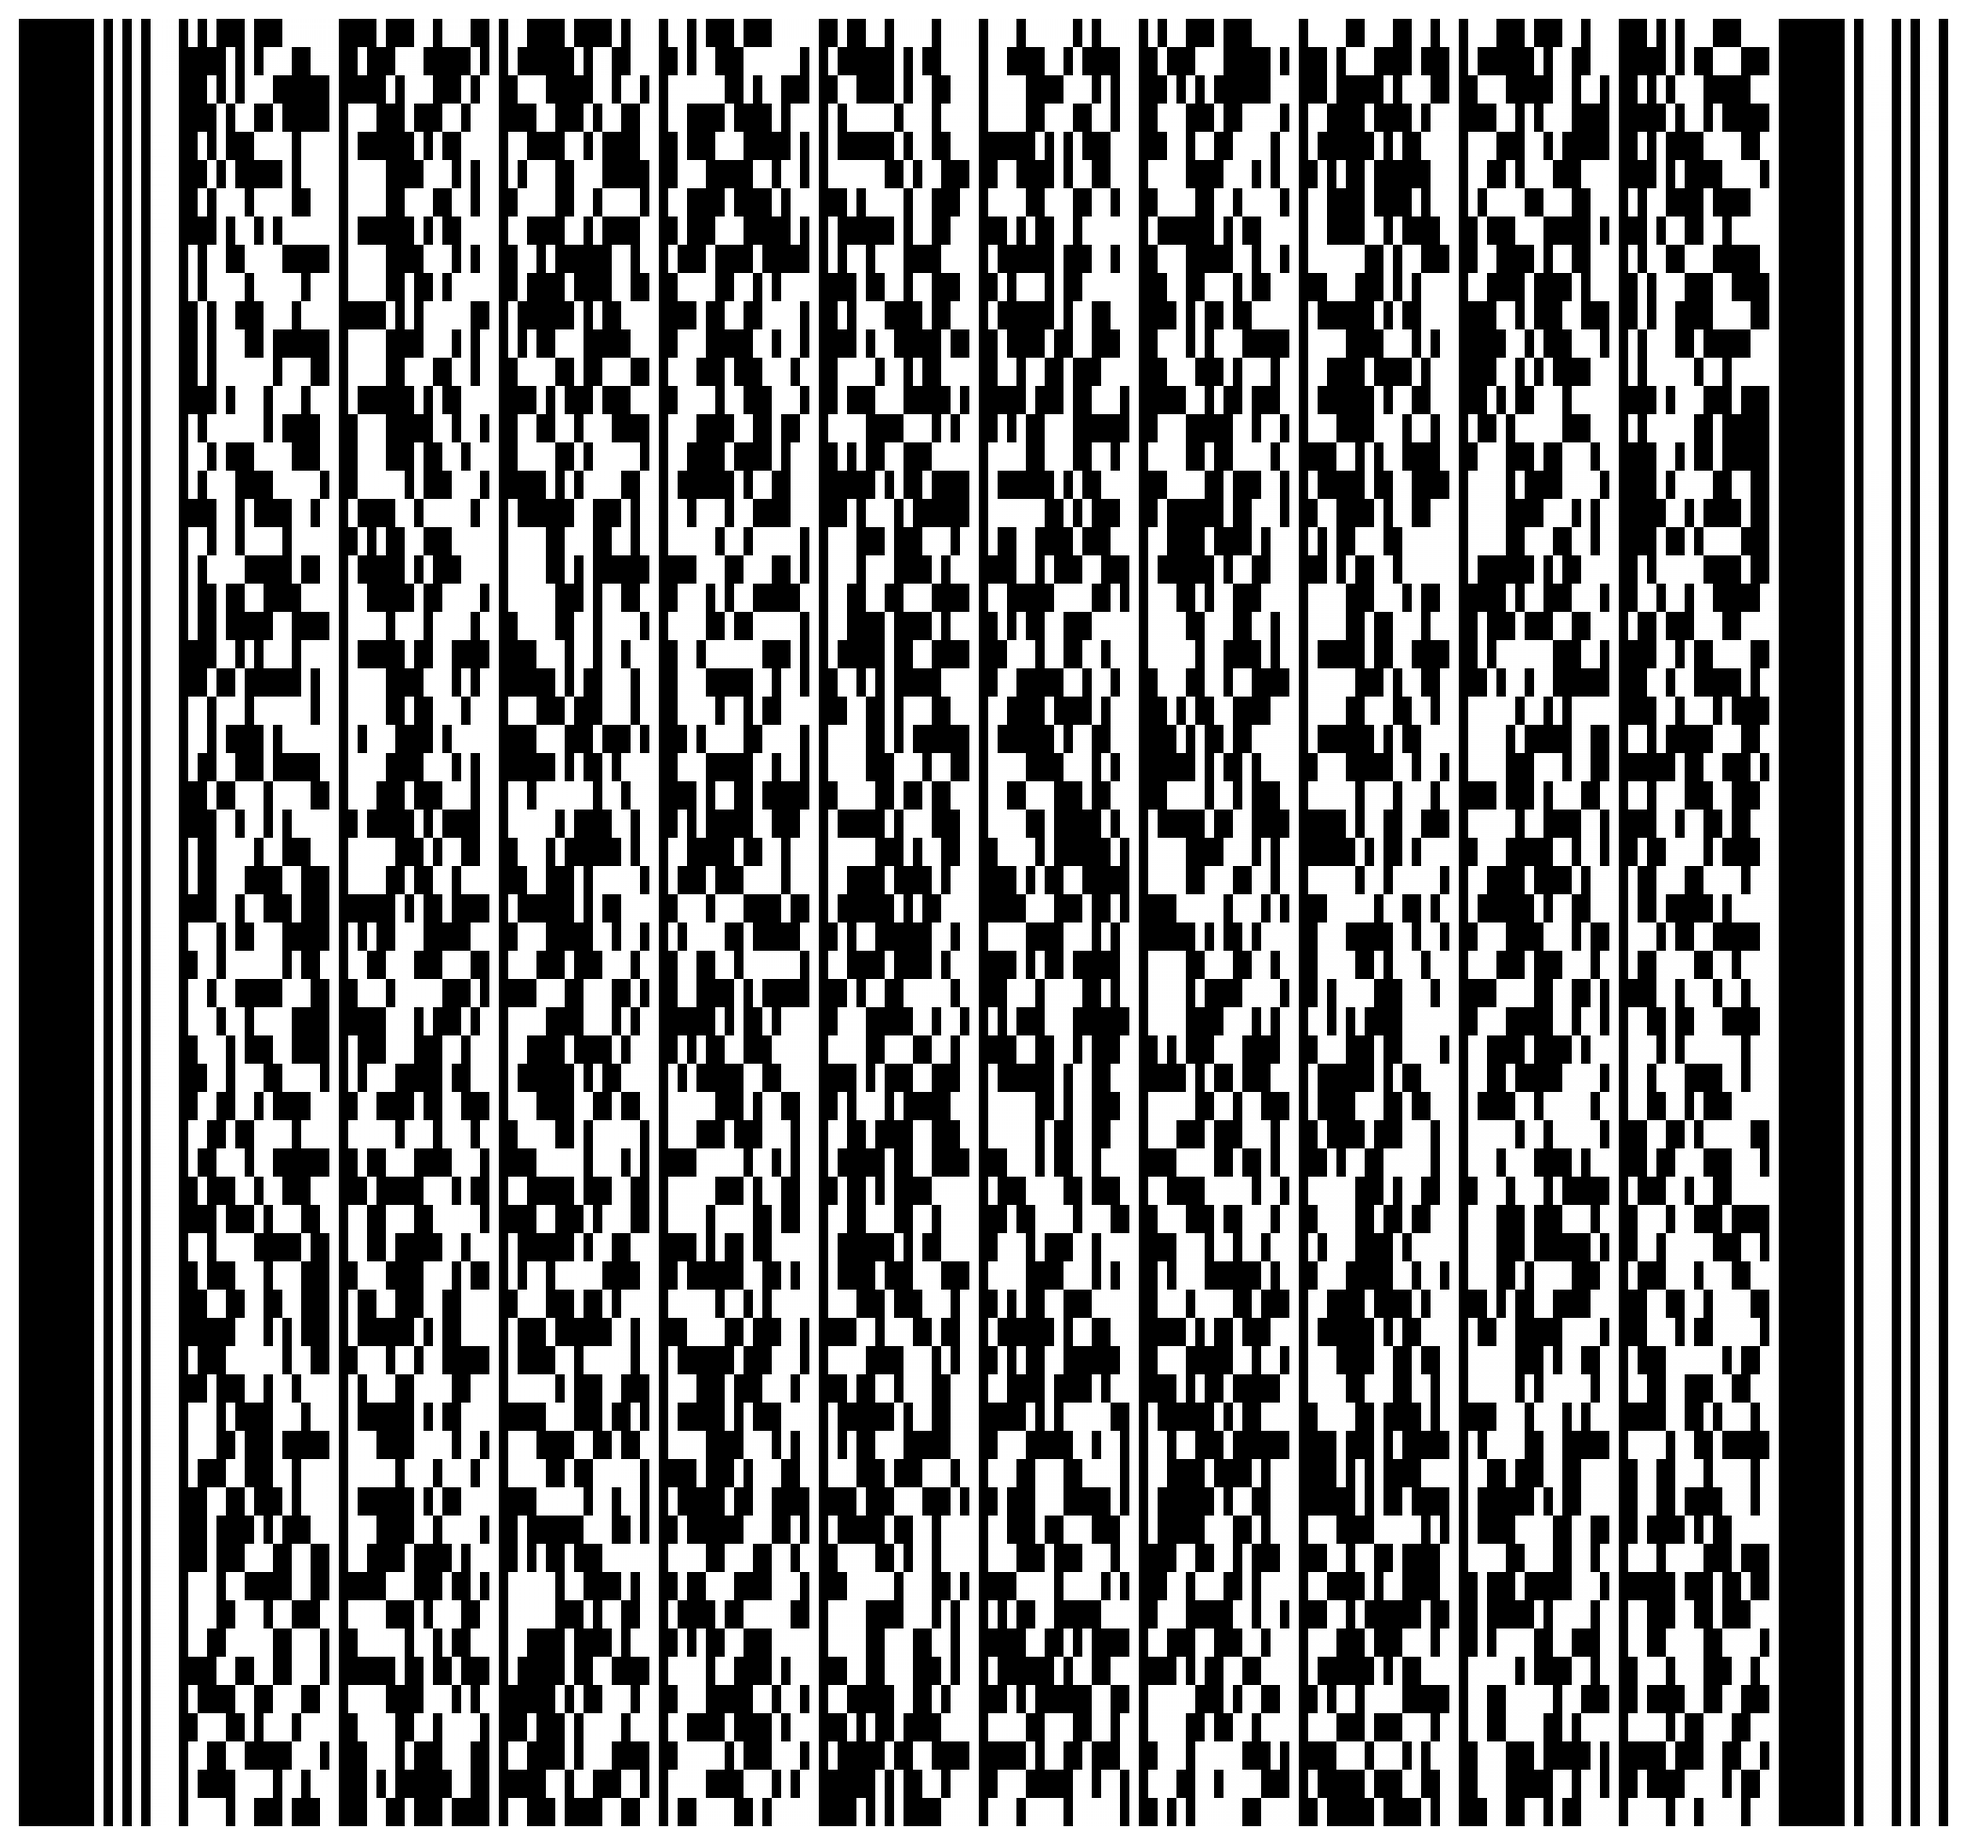
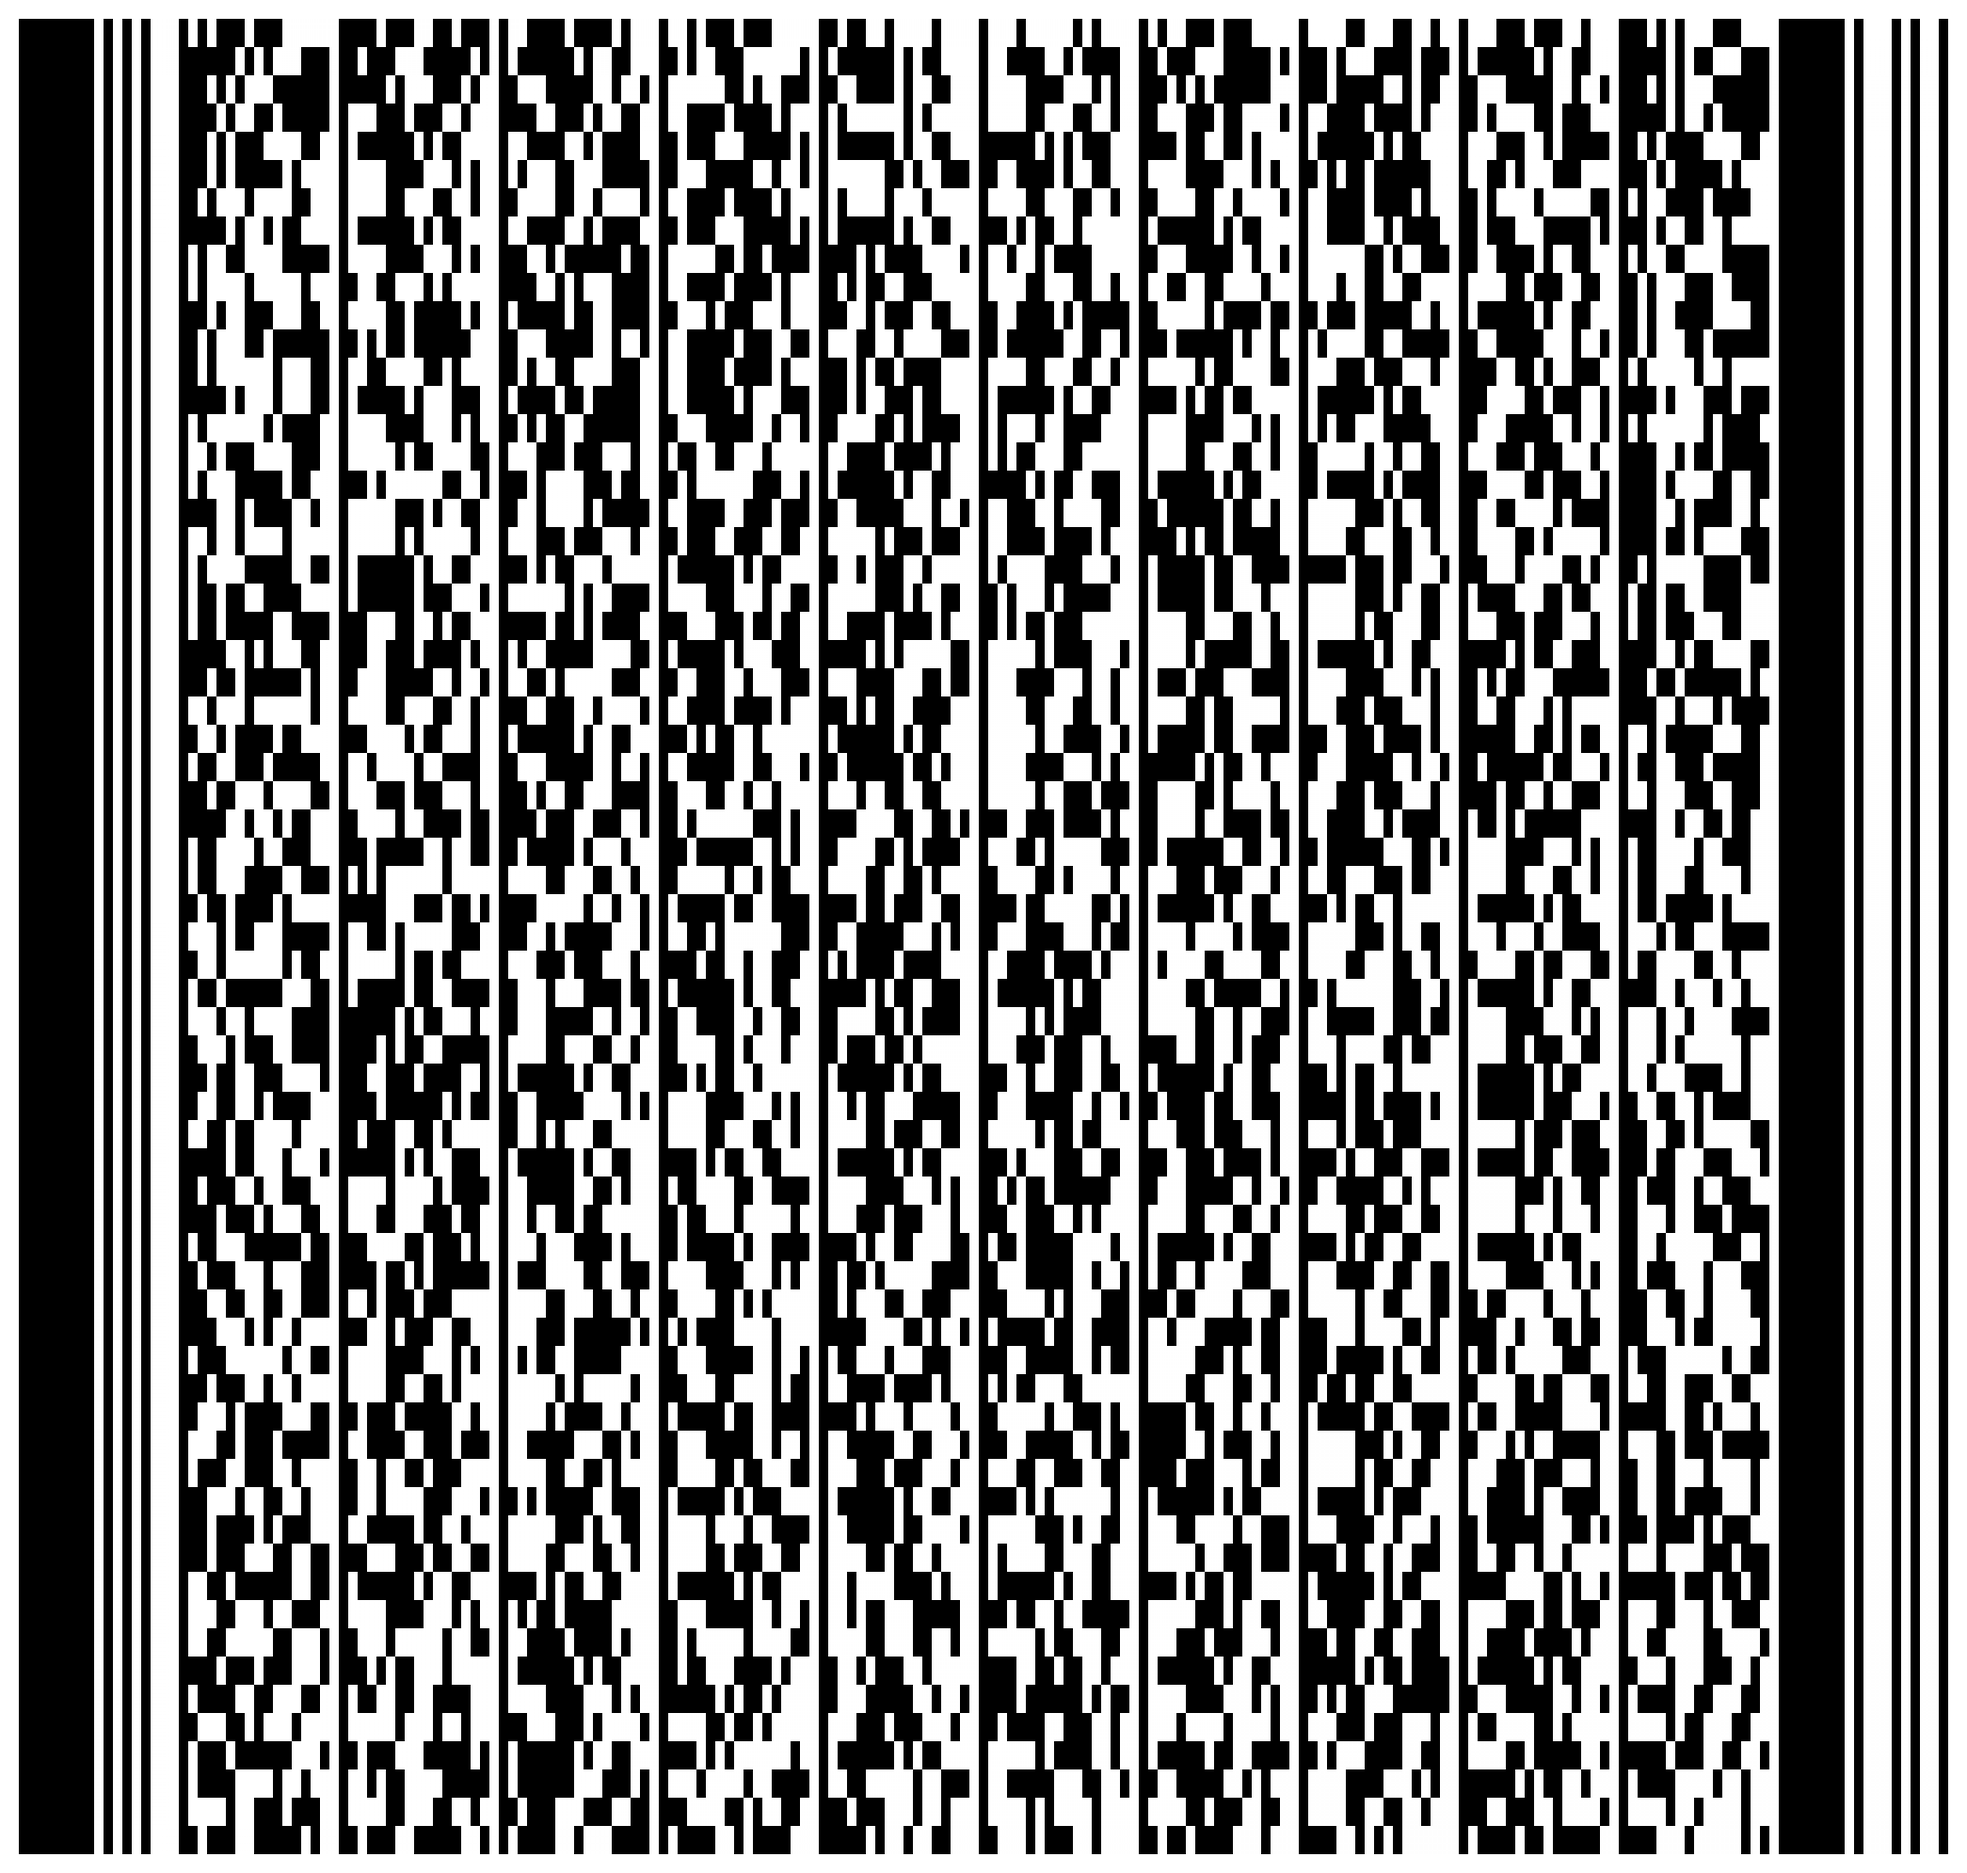
actualizacion facturas enviadas manualmente

diff --git a/views/pages/gestion-atenciones-admin/index.2.js b/views/pages/gestion-atenciones-admin/index.2.js
@@ -78,6 +78,12 @@ var GestionAtenciones = function() {
             e.preventDefault();
             copiarComprobante(dataset.id, dataset.comprobante);
         });
+
+        $tblMovimientos.on("click", ".btn-enviarsunat", function (e) {
+            const $button = $(this);
+            e.preventDefault();
+            enviarSUNAT($button.data("id"), $button.data("comprobante"), $button);
+        });
     };
 
     var TABLA_MOVIMIENTOS;
@@ -103,7 +109,12 @@ var GestionAtenciones = function() {
                     TABLA_MOVIMIENTOS.destroy();
                     TABLA_MOVIMIENTOS = null;
                 }
-                $tblMovimientos.find("tbody").html(tplMovimientos(result));
+                $tblMovimientos.find("tbody").html(tplMovimientos(result.map(r=>{
+                    return {
+                        ...r,
+                        debo_mostrar_enviar: Boolean((r.comprobante.charAt(0) === "F") && (r.cdr_descripcion != 'ENVIADO' && r.cdr_descripcion != 'RECHAZADO')) ? 1 : 0
+                    }
+                })));
 
                 if (result.length){
                     TABLA_MOVIMIENTOS = $tblMovimientos.DataTable({
@@ -122,7 +133,6 @@ var GestionAtenciones = function() {
             }
         );
     };
-
 
     this.TABLA_MOVIMIENTOS = function(){
         return TABLA_MOVIMIENTOS;
@@ -240,6 +250,39 @@ var GestionAtenciones = function() {
         });
     };
 
+    const enviarSUNAT = function(id_documento_electronico, numero_comprobante, $btnEnviar){
+        if (!confirm(`¿Desea enviar el comprobante ${numero_comprobante} a SUNAT?`)){
+            return;
+        }
+        
+        const fnActualizarResultado = (resultado)=>{
+            const $tdCdr = $btnEnviar.parents("tr").find(".cdrestadodescripcion");
+            let cdr_estado_color, cdr_estado_descripcion;
+
+            if (resultado?.cod_sunat === ""){
+                cdr_estado_color = "info";
+                cdr_estado_descripcion = "REENVIAR";
+            } else if (resultado?.cod_sunat == 0){
+                cdr_estado_color = "success";
+                cdr_estado_descripcion = "ACEPTADO";
+                $btnEnviar.remove();
+            } else if (resultado?.cod_sunat == -1){
+                cdr_estado_color = "warning";
+                cdr_estado_descripcion = "REVISAR";
+            } else {
+                cdr_estado_color = "danger";
+                cdr_estado_descripcion = "RECHAZADO";
+                $btnEnviar.remove();
+                alert(`Comprobante rechazado: ${resultado.mensaje}`);
+            }
+
+            $tdCdr.html(`<span class="badge bg-${cdr_estado_color}">${cdr_estado_descripcion}</span>`);
+        };
+
+        new EnviadorSUNAT({id_documento_electronico: id_documento_electronico, $btnEnviar: $btnEnviar})
+                        .enviarSUNAT(fnActualizarResultado);
+    };
+
     this.setDOM();
     this.setEventos();
     this.getTemplates();
@@ -250,5 +293,3 @@ var GestionAtenciones = function() {
 $(document).ready(function(){
     objGestionAtenciones = new GestionAtenciones(); 
 });
-
-

diff --git a/views/pages/gestion-convenios/index.facturacion.convenio.1.js b/views/pages/gestion-convenios/index.facturacion.convenio.1.js
@@ -413,7 +413,7 @@ var FacturacionConvenio = function(){
         );
     };
 
-    TABLA_FACTURACION_CONVENIO  = null;
+    var TABLA_FACTURACION_CONVENIO  = null;
     this.listar = function(){
         $btnActualizar.prop("disabled", true);
         $overlayTabla.show();
@@ -646,7 +646,33 @@ var FacturacionConvenio = function(){
             return;
         }
 
-        new EnviadorSUNAT({id_documento_electronico: id_documento_electronico, $btnEnviar: $btnEnviar}).enviarSUNAT();
+        const fnActualizarResultado = (result) =>{
+            if (result.respuesta == "ok"){
+                toastr.success(result.mensaje);
+            } else {
+                toastr.error(result.mensaje);
+            }
+            
+            var TR_FILA = $btnEnviar.parents("tr");
+            var arr = [].slice.call($(tplFacturacionConvenio([result.registro])).find("td")),
+                dataNuevaFila = $.map(arr, function(item) {
+                    return item.innerHTML;
+                });
+
+            if (TABLA_FACTURACION_CONVENIO){
+                if (TR_FILA){ 
+                    TABLA_FACTURACION_CONVENIO
+                        .row(TR_FILA)
+                        .data(dataNuevaFila)
+                        .draw();  
+                } else {
+                    TABLA_FACTURACION_CONVENIO.row.add(dataNuevaFila).draw(false);     
+                }
+            }
+        }
+
+        new EnviadorSUNAT({id_documento_electronico: id_documento_electronico, $btnEnviar: $btnEnviar})
+                            .enviarSUNAT(fnActualizarResultado);
     };
 
     var modificarPorNotaCredito = function(id_documento_electronico){
@@ -815,6 +841,7 @@ const TablaCuotasCredito  = function(data){
     return this.init();
 };
 
+/*
 const EnviadorSUNAT = function(data){
     var self = this;
     this.enviandoSUNAT = false;
@@ -836,7 +863,6 @@ const EnviadorSUNAT = function(data){
                 p_id_documento_electronico : this.id_documento_electronico
             },
             success: function(result){
-                /*update $tr*/
                 self.enviandoSUNAT = false;
                 if (result.respuesta == "ok"){
                     toastr.success(result.mensaje);
@@ -871,9 +897,9 @@ const EnviadorSUNAT = function(data){
         );
     };
 
-
     return this;
 };
+*/
 
 $(document).ready(function(){
     objFacturacionConvenio = new FacturacionConvenio();

diff --git a/views/componentes/EnviadorSUNAT.componente.js b/views/componentes/EnviadorSUNAT.componente.js
@@ -1,0 +1,40 @@
+const EnviadorSUNAT = function(data){
+    this.enviandoSUNAT = false;
+    this.id_documento_electronico = data.id_documento_electronico;
+    this.$btnEnviar = data.$btnEnviar;
+
+    this.enviarSUNAT = function(fnPost = null){
+        if (this.enviandoSUNAT){
+            return;
+        }
+        this.enviandoSUNAT = true;
+        const tempHTML = this.$btnEnviar.html();
+        this.$btnEnviar.html("<p>Cargando....</p>");
+    
+        $.ajax({ 
+            url : VARS.URL_CONTROLADOR+"documento.electronico.controlador.php?op=enviar_sunat_x_id",
+            type: "POST",
+            dataType: 'json',
+            delay: 250,
+            data: {
+                p_id_documento_electronico : this.id_documento_electronico
+            },
+            success: (result) => {
+                this.$btnEnviar.html(tempHTML);
+                self.enviandoSUNAT = false;
+                fnPost(result);
+            },
+            error:(request) => {
+                this.$btnEnviar.html(tempHTML);
+                this.enviandoSUNAT = false;
+                toastr.error(request.responseText);
+                return;
+            },
+            cache: true
+            }
+        );
+    };
+
+
+    return this;
+};

diff --git a/views/pages/gestion-atenciones-admin/template.movimientos.php b/views/pages/gestion-atenciones-admin/template.movimientos.php
@@ -5,12 +5,15 @@
                 <button type="button" class="btn btn-info btn-sm dropdown-toggle" data-toggle="dropdown" aria-expanded="false">
                 Opc.
                 </button>
-                <div class="dropdown-menu" style="">
+                <div class="dropdown-menu">
                     {{#id_atencion_medica}}
                     <a class="dropdown-item" target="_blank" href="../../../impresiones/ticket.atencion.sinprecios.php?id={{this}}" title="Ver Ticket Consulta"><i class="fa fa-eye"></i> TICKET (CONSULTA)</a>
                     {{/id_atencion_medica}}
 
                     {{#iddocumento_electronico}}
+                    {{#if_ ../debo_mostrar_enviar '==' 1}}
+                        <a class="dropdown-item btn-enviarsunat" style="color:red;font-weight:bold" data-comprobante="{{../comprobante}}" data-id="{{this}}" href="#" title="Enviar a SUNAT"><i class="fa fa-upload"></i> ENVIAR A SUNAT</a>
+                    {{/if_}}
                     <a class="dropdown-item" rel="noopener noreferrer" target="_blank" href="../../../impresiones/ticket.comprobante.php?id={{this}}" title="Ver Comprobante"><i class="fa fa-eye"></i> COMPROBANTE</a>
                     <a class="dropdown-item" rel="noopener noreferrer" target="_blank" href="../../../impresiones/comprobante.a4.pdf.php?id={{this}}" title="Ver Comprobante"><i class="fa fa-eye"></i> COMPROBANTE (A4)</a>
                     <a class="dropdown-item btn-copiarcomprobante" data-comprobante="{{../comprobante}}" data-id="{{this}}" href="#" title="Copiar Comprobante"><i class="fa fa-copy"></i> COPIAR COMPROBANTE</a>
@@ -44,7 +47,7 @@
                 </div>
             </div>
         </td>
-        <td class="text-center" style="max-width: 200px;">  
+        <td class="text-center cdrestadodescripcion" style="max-width: 200px;">  
             <span class="badge bg-{{cdr_estado_color}}">{{cdr_estado_descripcion}}</span>
         </td>
         <td class="text-center">{{fecha_registro}}</td>

diff --git a/views/pages/gestion-convenios/index.php b/views/pages/gestion-convenios/index.php
@@ -20,6 +20,7 @@ include_once "prt.modal.facturacion.convenio.php";
 <script type="text/javascript" src="../../componentes/PrecioVenta.componente.js" defer></script>
 <script type="text/javascript" src="../../componentes/Select.componente.js" defer></script>
 <script type="text/javascript" src="../../componentes/ConsultarDocumento.componente.js" defer></script>
+<script type="text/javascript" src="../../componentes/EnviadorSUNAT.componente.js" defer></script>
 <!--
 <script type="text/javascript" src="ClsServicioGeneral.js" defer></script>
 <script type="text/javascript" src="ClsServicioExamen.js" defer></script>
@@ -27,5 +28,5 @@ include_once "prt.modal.facturacion.convenio.php";
 -->
 <script type="text/javascript" src="index.empresas.convenio.js" defer></script>
 <script type="text/javascript" src="index.atenciones.convenio.js" defer></script>
-<script type="text/javascript" src="index.facturacion.convenio.js" defer></script>
+<script type="text/javascript" src="index.facturacion.convenio.1.js" defer></script>
 

diff --git a/negocio/DocumentoElectronico.clase.php b/negocio/DocumentoElectronico.clase.php
@@ -2175,7 +2175,7 @@ class DocumentoElectronico extends Conexion {
             } else {
                 $sql  = "SELECT iddocumento_electronico as id, idtipo_comprobante as id_tipo_comprobante, xml_filename as nombre_archivo, fecha_emision 
                             FROM documento_electronico
-                            WHERE estado_mrcb AND (cdr_estado IS NULL OR (cdr_estado <> 0  AND cdr_estado < 2000)) AND enviar_a_sunat = 0
+                            WHERE estado_mrcb AND (cdr_estado IS NULL OR (cdr_estado <> 0  AND cdr_estado < 2000) OR cdr_estado = '')
                             AND iddocumento_electronico IN (:0)";
             }
 

diff --git a/views/pages/gestion-atenciones-admin/index.php b/views/pages/gestion-atenciones-admin/index.php
@@ -19,9 +19,11 @@ include_once "../gestion-atenciones/prt.modal.canjearcomprobante.php";
 
 ?>
 
+<script type="text/javascript" src="../../componentes/EnviadorSUNAT.componente.js" defer></script>
+
 <script type="text/javascript" src="../gestion-atenciones/canjear.comprobante.1.js" defer></script>
 <script type="text/javascript" src="index.veratencion_1.js" defer></script>
-<script type="text/javascript" src="index.js" defer></script>
+<script type="text/javascript" src="index.2.js" defer></script>
 
 <!--
 <script type="text/javascript" src="index.paciente.js" defer></script>

diff --git a/datos/datos.empresa.php b/datos/datos.empresa.php
@@ -37,7 +37,7 @@
  define("F_CORREO","erik.ur.gf.10@gmail.com");
  define("F_PASS_MAIL","");
  define("F_TOKEN_PROVEEDOR", "FACTURALAYA_FN567YHDJC2NRHNZ0CXD");
- define("F_FECHA_TOPE", "13-06-2023");
+ define("F_FECHA_TOPE", "13-07-2023");
  
  define("F_MODO_PROCESO","1"); /*PRODUCCION: 1, BETA: 3*/
  define("F_RUTA","https://e-factura.sunat.gob.pe/ol-ti-itcpfegem/billService"); 
